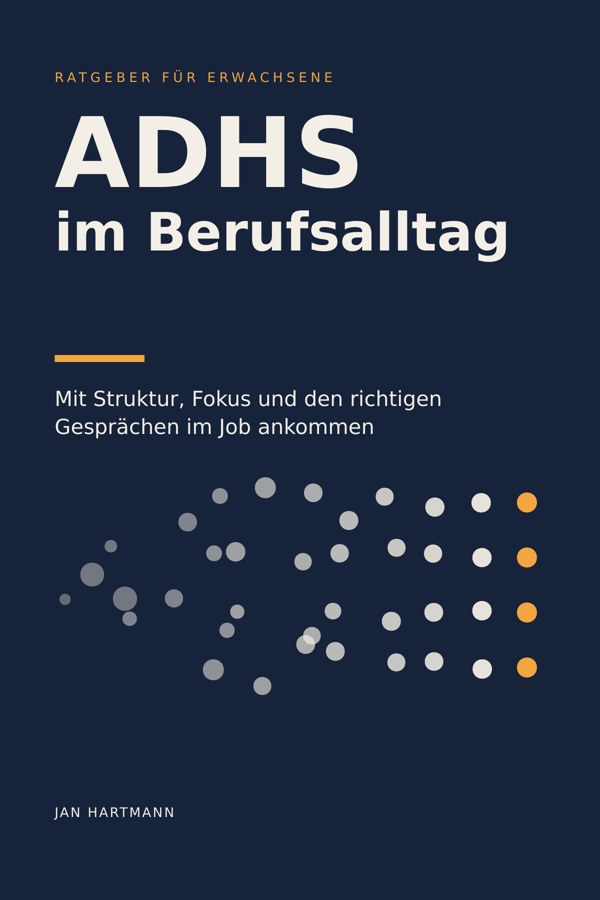
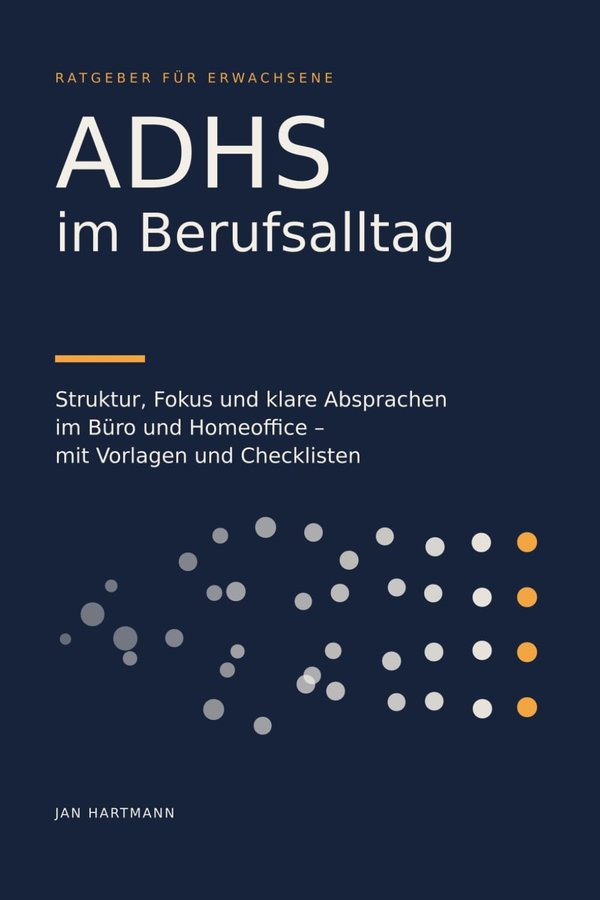
Neue Cover für Haushaltsauflösung und ADHS im Berufsalltag (wie bei Amazon)

diff --git a/index.html b/index.html
@@ -554,7 +554,7 @@
 
 
       <article class="book" data-vorschau="6" data-fuer="erwachsene">
-        <div class="cover"><img src="img/haushaltsaufloesung.jpg" alt="Cover: Haushaltsauflösung und Erbe" width="600" height="900" loading="lazy"></div>
+        <div class="cover"><img src="img/haushaltsaufloesung.jpg?v=2" alt="Cover: Haushaltsauflösung und Erbe" width="600" height="900" loading="lazy"></div>
         <p class="by">Jan Hartmann</p>
         <h4>Haushaltsauflösung und Erbe</h4>
         <p class="meta">Schritt für Schritt durch den Nachlass</p>
@@ -574,7 +574,7 @@
       </article>
 
       <article class="book" data-vorschau="6" data-fuer="erwachsene">
-        <div class="cover"><img src="img/adhs-beruf.jpg" alt="Cover: ADHS im Berufsalltag" width="600" height="900" loading="lazy"></div>
+        <div class="cover"><img src="img/adhs-beruf.jpg?v=2" alt="Cover: ADHS im Berufsalltag" width="600" height="900" loading="lazy"></div>
         <p class="by">Jan Hartmann</p>
         <h4>ADHS im Berufsalltag</h4>
         <p class="meta">Ratgeber für Erwachsene</p>
